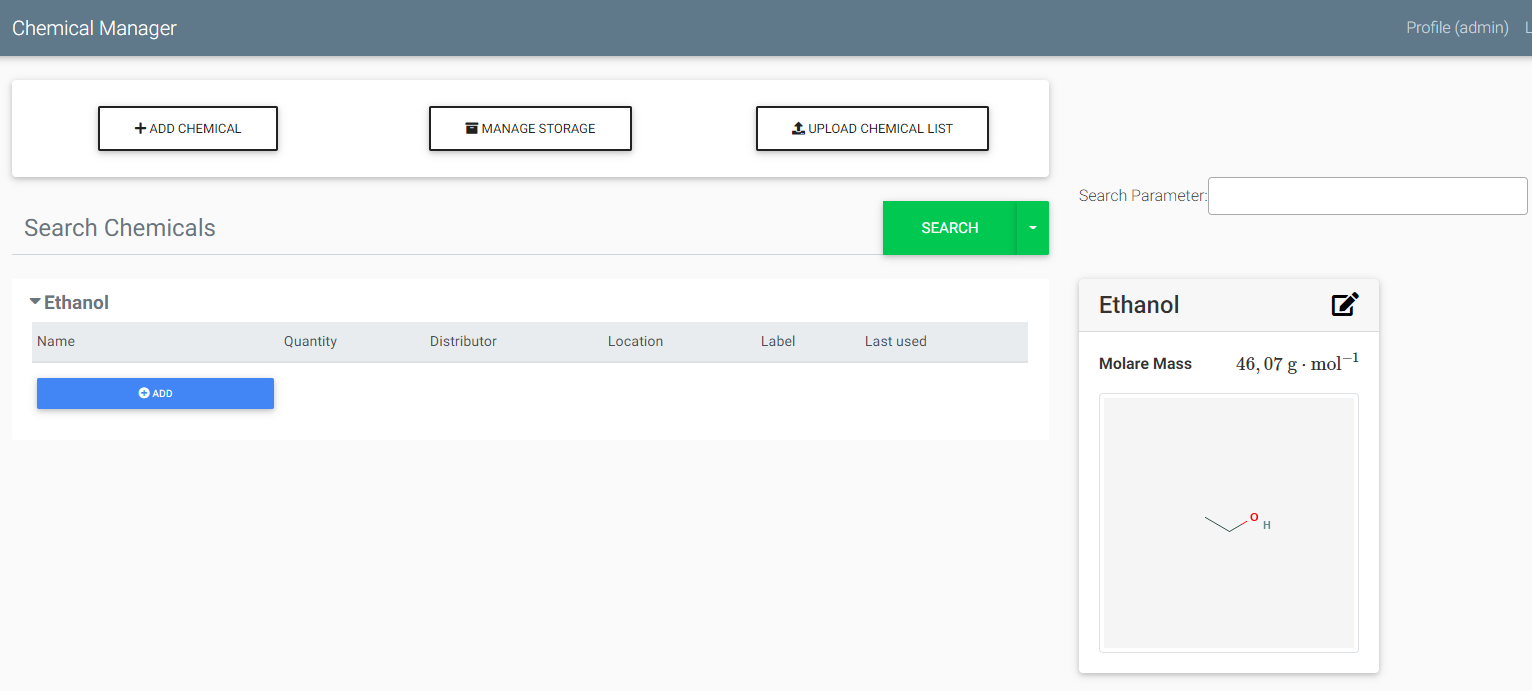
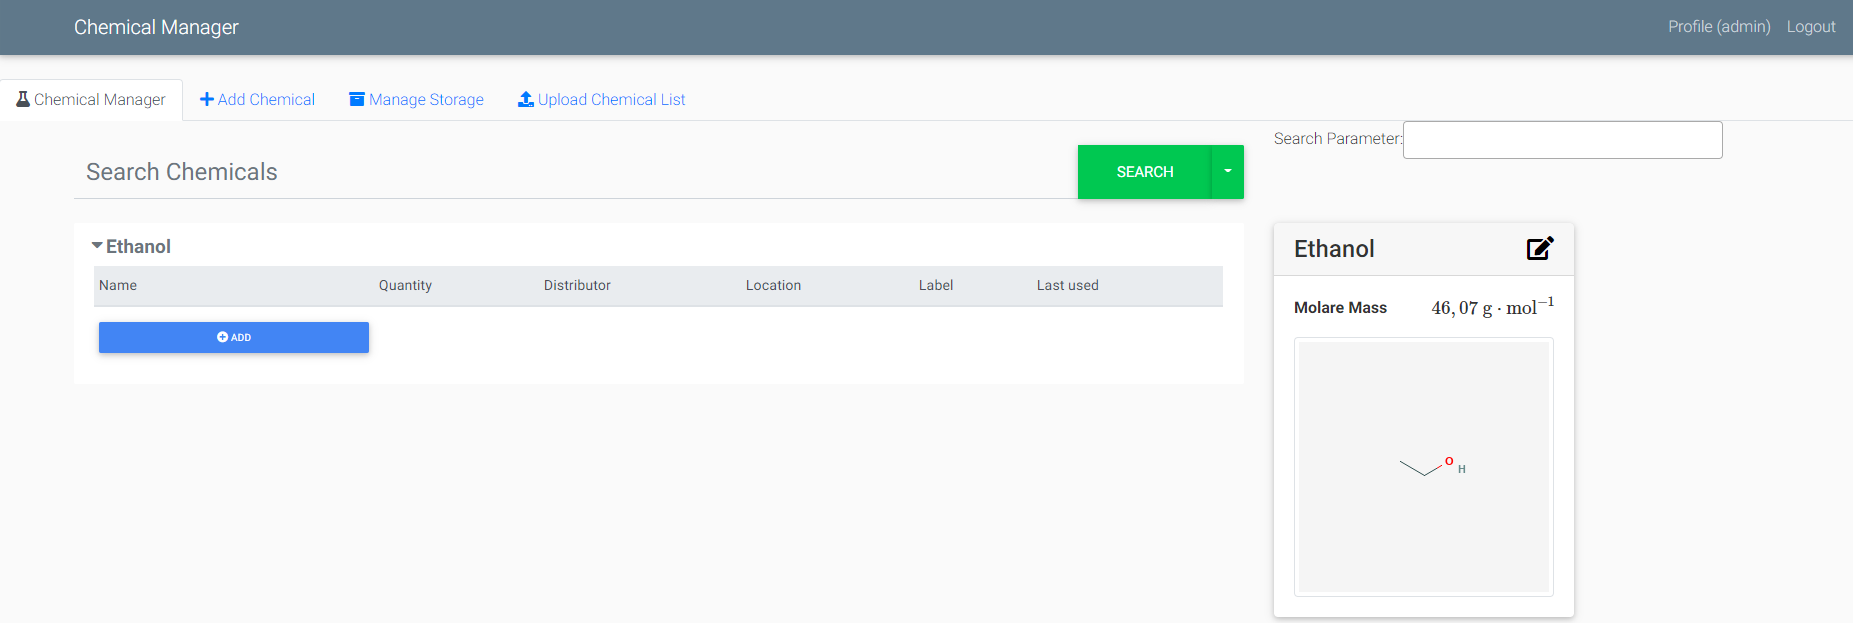
using navbar-tabs

diff --git a/chemmanager/templates/chemmanager/chemmanager_base.html b/chemmanager/templates/chemmanager/chemmanager_base.html
@@ -1,33 +1,20 @@
 {% extends "chemmanager/base.html" %}
 {% block base_content %}
+    <ul class="nav nav-tabs navbar-collapse">
+        <li class="nav-item">
+            <a class="nav-link active" href="#"><i class="fas fa-flask"></i>&nbsp;Chemical Manager</a>
+        </li>
+        <li class="nav-item">
+            <a class="nav-link" href="#"><i class="fas fa-plus"></i>&nbsp;Add Chemical</a>
+        </li>
+        <li class="nav-item">
+            <a class="nav-link" href="#"><i class="fas fa-archive"></i>&nbsp;Manage Storage</a>
+        </li>
+        <li class="nav-item">
+            <a class="nav-link" href="#"><i class="fas fa-upload"></i>&nbsp;Upload Chemical List</a>
+        </li>
+    </ul>
     <main role="main" class="container">
-        <div class="row">
-            <div class="col-sm-8">
-                <div class="card text-center">
-                    <div class="card-body">
-                        <div class="row">
-                            <div class="col-sm">
-                                <a href="{% url 'chemical-create' %}" class="btn btn-outline-dark"
-                                   onclick="clear_local_storage()"><i
-                                        class="fas fa-plus"></i>&nbsp;Add Chemical</a>
-                            </div>
-                            <div class="col-sm">
-                                <a href="{% url 'storage-list' %}" class="btn btn-outline-dark"
-                                   onclick="clear_local_storage()"><i
-                                        class="fas fa-archive"></i>&nbsp;Manage Storage</a>
-                            </div>
-                            <div class="col-sm">
-                                <a href="{% url 'chemicallist-upload' %}" class="btn btn-outline-dark"
-                                   onclick="clear_local_storage()"><i class="fas fa-upload"></i>&nbsp;Upload Chemical
-                                    List</a>
-                            </div>
-                        </div>
-                    </div>
-                </div>
-
-            </div>
-        </div>
-
         {% block search_bar %}{% endblock %}
         <div class="row">
             <div class="col-sm-8">

diff --git a/chemmanager/templates/chemmanager/base.html b/chemmanager/templates/chemmanager/base.html
@@ -48,7 +48,7 @@
 <style>
     @media (min-width: 1400px) {
         .container {
-            max-width: 1600px;
+            max-width: 1800px;
         }
     }
 </style>
